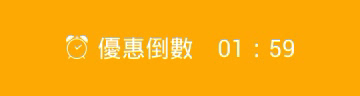
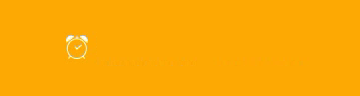
add a step

Changed region(s): [[0.275, 0.375, 0.55, 0.625], [0.7028, 0.4062, 0.825, 0.5938], [0.5806, 0.4062, 0.6722, 0.5938]]

diff --git a/offpic/index3.html b/offpic/index3.html
@@ -96,10 +96,22 @@
   .clickC:last-of-type{
   margin-bottom: 88px;
   }
+  #cf1{
+	background-color: rgba(0, 0, 0, 0.7);
+    height: 640px;
+    position: fixed;
+    top: 0;
+    width: 360px;
+    z-index: 3;
+  }
+  #cf2{
+  background-color: white; padding: 10px; width: 300px; margin: 280px auto;border-radius: 2px;
+  }
  </style>
 </head>
 <body>
-<div id="row1" class="hide" onclick="hideSelect()"><img src="menu_head2.png" style="position: fixed; top: 0px;" /><div id="nowtime"  class="nowtimeClass">09:31</div><div id="counttime" >優惠倒數　01 : 59</div><img src="menu_foot_time.png" style="position: fixed; bottom: 0px; left: 0px;" /></div>
+<div id="cf1" ><div id="cf2"><table style="margin: 1px auto;"><tr><td>確認兌換優惠</td></tr><tr><td style="font-size: 15px; height: 80px; vertical-align: middle;">請確認已在麥當勞餐廳櫃檯，點<br>選「立即兌換」後，需於兩分鐘內出示<br>給結帳人員。</td></tr><tr><td style="font-size: 12px; text-align: right; color: #2da99d;">暫不兌換　立即兌換</td></tr></table></div></div>
+<div id="row1" class="hide" ><img src="menu_head2.png" style="position: fixed; top: 0px;" onclick="hideSelect()" /><div id="nowtime"  class="nowtimeClass">09:31</div><div id="counttime" >優惠倒數　01 : 59</div><img src="menu_foot_time.png" style="position: fixed; bottom: 0px; left: 0px;" /></div>
 <div id="mu1" class=""><img src="menu_head.png" style="position: fixed; top: 0px;" /><div id="nowtime2"  class="nowtimeClass">09:31</div><img src="menu_foot2.png" style="position: fixed; bottom: 0px; left: 0px;" /></div>
 <script src="https://ajax.googleapis.com/ajax/libs/jquery/2.2.4/jquery.min.js"></script>
 <script>
